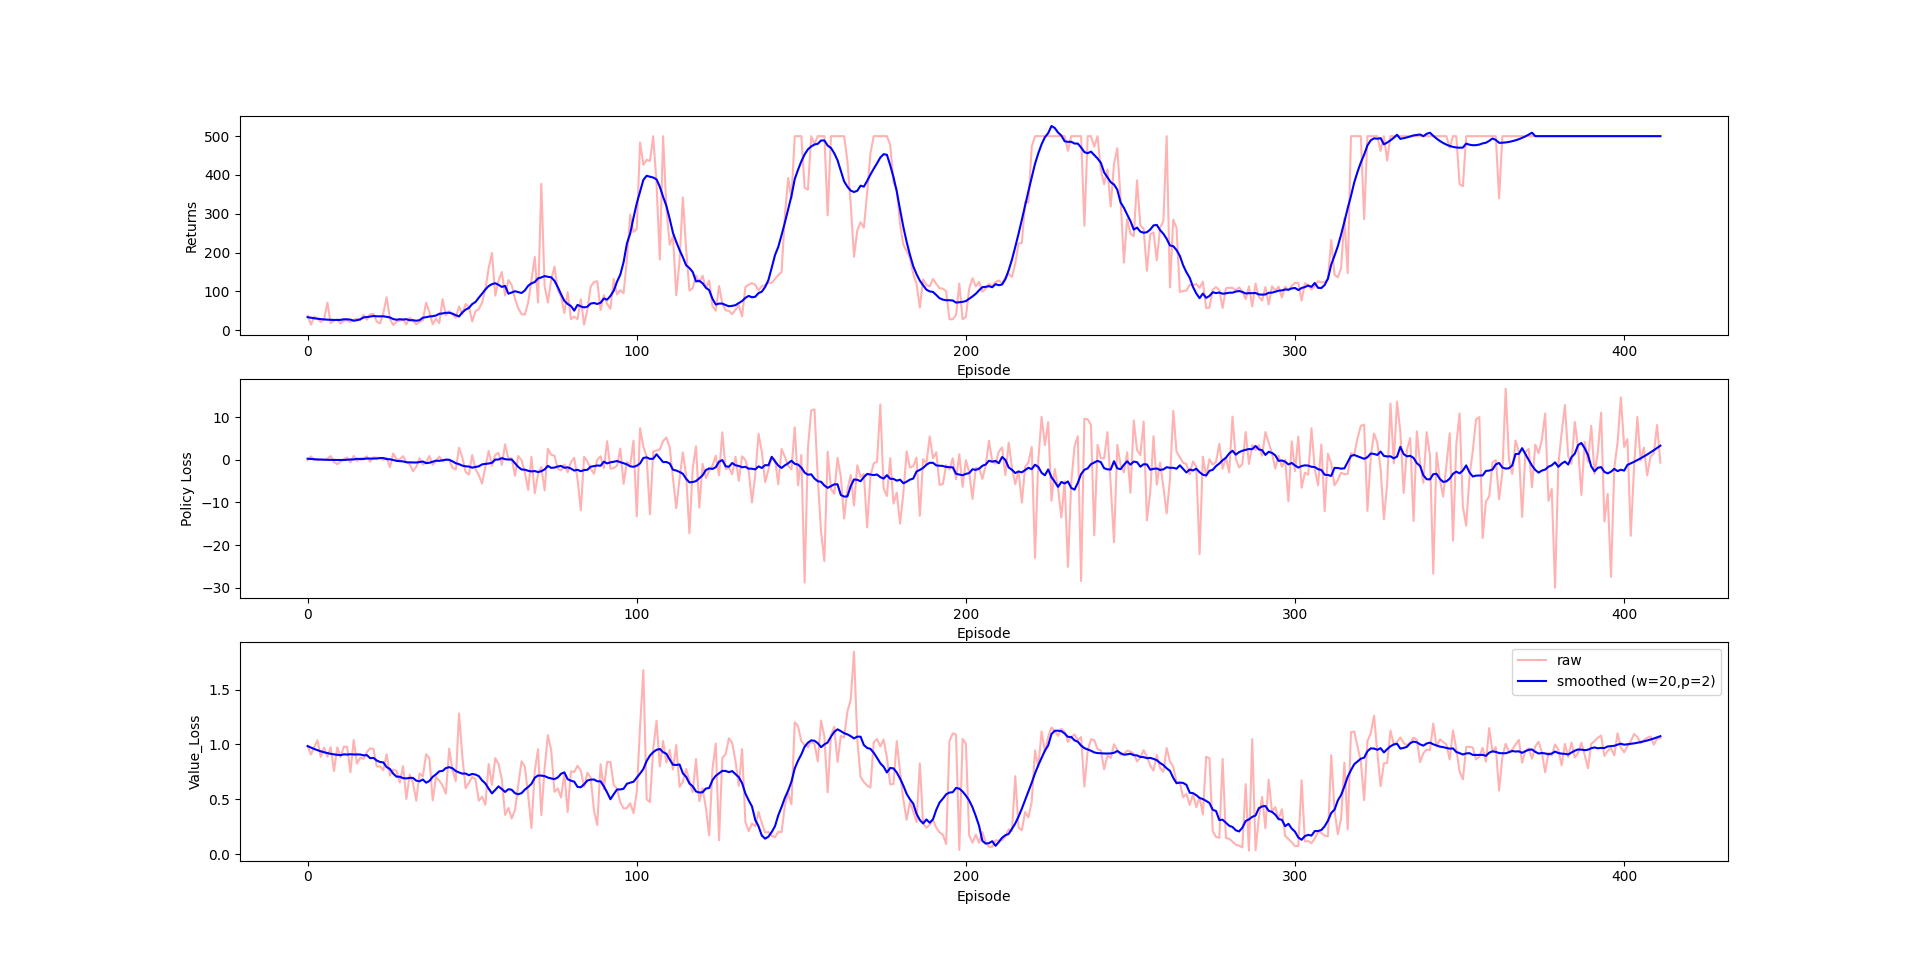
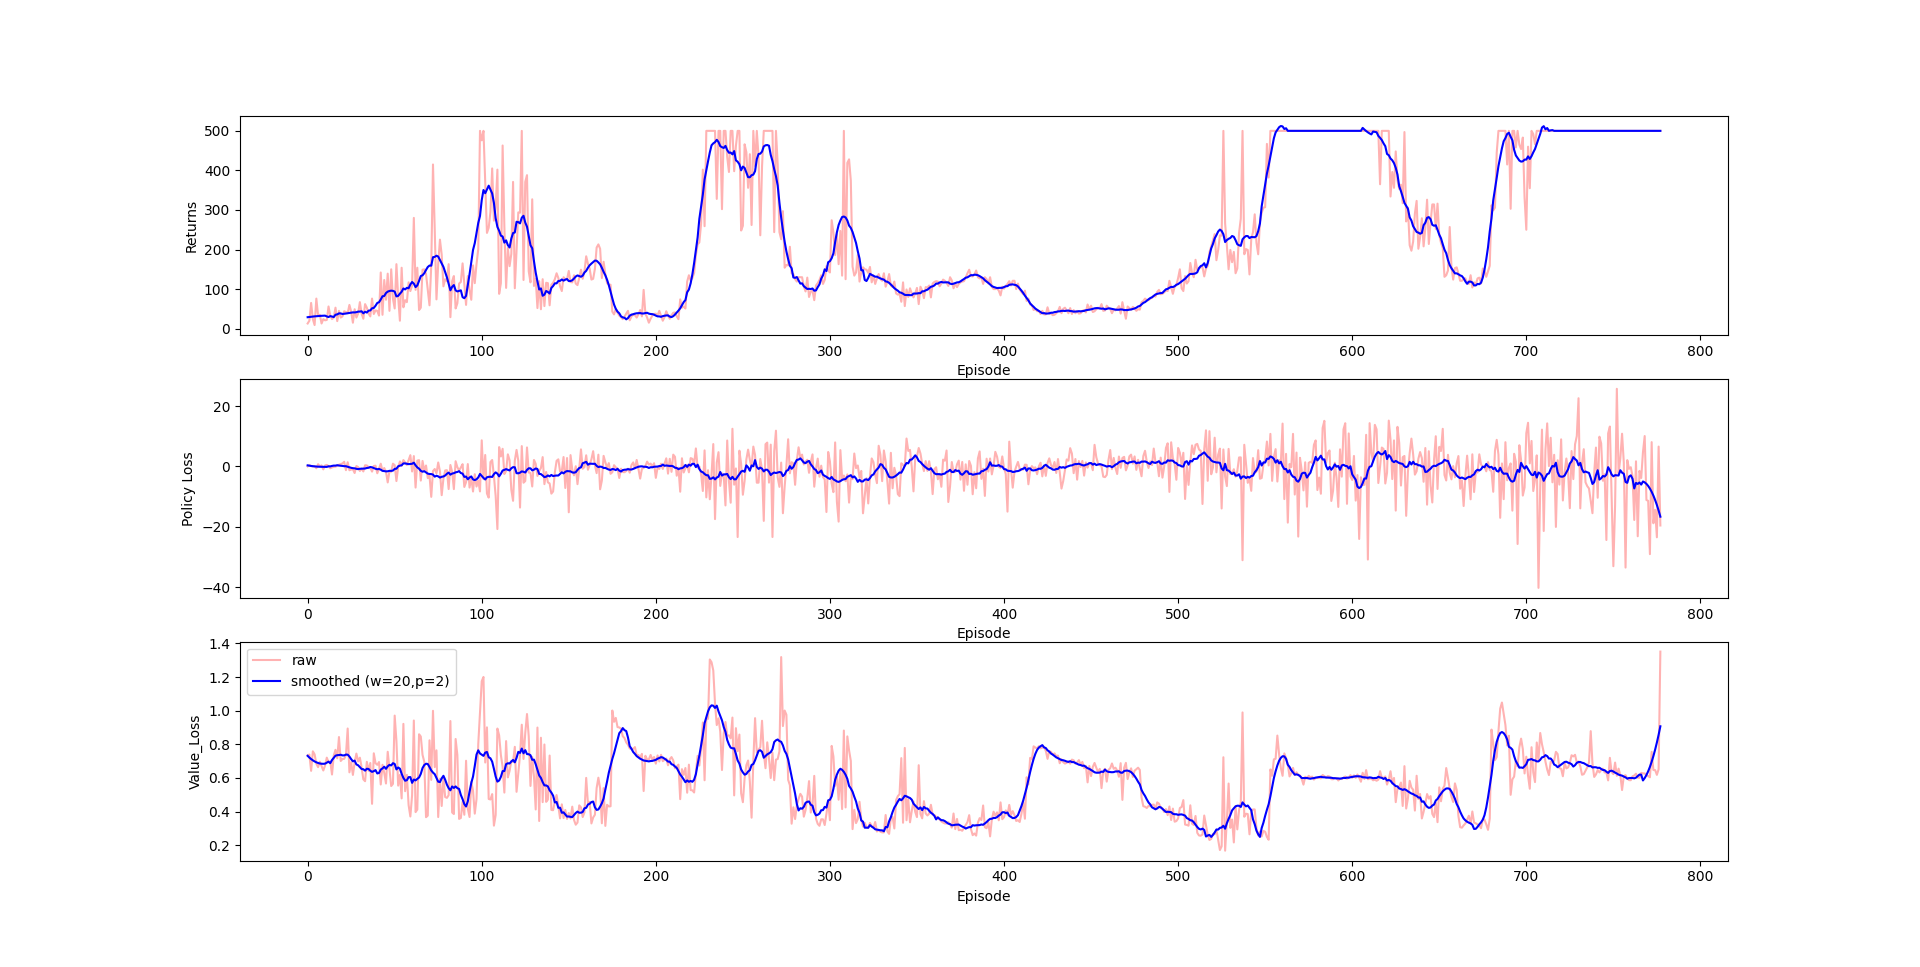
Implemented A2C

diff --git a/Assignments/BACM/src/agent.py b/Assignments/BACM/src/agent.py
@@ -139,7 +139,7 @@ class PolicyAgent:
         return info
     
 class ValueAgent:
-    def __init__(self, agent_cfg: AgentConfig, nn_cfg: NNConfig) -> None:
+    def __init__(self, agent_cfg: AgentConfig, nn_cfg: NNConfig, advantage=False) -> None:
         self.agent_cfg = agent_cfg
         self.nn_cfg = nn_cfg
         self.value = ValueNetwork(
@@ -147,6 +147,7 @@ class ValueAgent:
             nn_cfg.output_dim,
             nn_cfg.features,
         )
+        
         self.optimizer = self._build_optimizer(nn_cfg.optim)
         self.loss = self._loss(nn_cfg.loss)
         self.n_steps = agent_cfg.n_steps
@@ -155,6 +156,8 @@ class ValueAgent:
         self.V_s: list[Tensor] = []
         self.rewards: list[float] = []
         self._g_t: list[Tensor] = []
+
+        self.advantage = advantage
 
 
     def _build_optimizer(self, optimizer: str):
@@ -176,6 +179,10 @@ class ValueAgent:
             raise ValueError(f"Unknown loss function: {loss}")
 
         return registry[loss]
+    
+    def MSELoss(self, target, pred):
+        l = torch.mean(torch.abs(torch.square(target - pred) - 1))
+        return l
 
     def values(self, obs: Tensor) -> Tensor:
 
@@ -203,13 +210,22 @@ class ValueAgent:
                 discounted_r = gammas[:-1] * rewards
                 discounted_v = gammas[-1] * self.V_s[k+self.n_steps-1]
                 g = torch.sum(discounted_r) + discounted_v
-                g_t.append(g.detach().clone())
+                if self.advantage:
+                    a = g - self.V_s[k].detach()
+                    g_t.append(a.detach())
+                else:
+                    g_t.append(g.detach())
 
                 
             else: # N-step update will go out of bounds. 
-                rewards = torch.tensor(self.rewards[k-T:], dtype=torch.float32)
+                rewards = torch.tensor(self.rewards[k:], dtype=torch.float32)
                 discounted_r = gammas[:len(rewards)] * rewards
-                g_t.append(torch.sum(discounted_r, dtype=torch.float32).detach())
+                g = torch.sum(discounted_r, dtype=torch.float32).detach()
+                if self.advantage:
+                    a = g - self.V_s[k].detach()
+                    g_t.append(a.detach())
+                else:
+                    g_t.append(g)
 
 
         self._g_t = g_t
@@ -219,10 +235,10 @@ class ValueAgent:
         
 
         target = torch.stack(self._g_t).detach()
-        target = (target - target.mean())/(target.std() + 1e-8)
+        target = (target - target.mean())/(target.std() + 1e-8) 
         pred = torch.stack(self.V_s)
 
-        l = self.loss(pred, target)    
+        l = self.MSELoss(target=target, pred=pred)    
         self.optimizer.zero_grad()   
         l.backward()
         self.optimizer.step()

diff --git a/Assignments/BACM/src/A2C.py b/Assignments/BACM/src/A2C.py
@@ -48,10 +48,10 @@ def sample_monte_carlo(env: gym.Env, policy_agent: PolicyAgent, value_agent: Val
     return policy_agent, value_agent
 
 
-def AC(config: Config, env: gym.Env, save_plot: Path | None = None):
+def A2C(config: Config, env: gym.Env, save_plot: Path | None = None):
 
     policy_agent = PolicyAgent(config.agent, config.nn)
-    value_agent = ValueAgent(config.agent, config.nn)
+    value_agent = ValueAgent(config.agent, config.nn, advantage=True)
 
     returns_history = []
     loss_history = {"Policy": [], "Value": []}
@@ -97,10 +97,10 @@ def AC(config: Config, env: gym.Env, save_plot: Path | None = None):
 
 
 if __name__ == "__main__":
-    name = "AC"
+    name = "A2C"
     save_path = Path("results/")
     save_path.mkdir(exist_ok=True)
     cfg = load_config(name)
     env = gym.make("CartPole-v1")
 
-    AC(config=cfg, env=env, save_plot=save_path)
+    A2C(config=cfg, env=env, save_plot=save_path)
